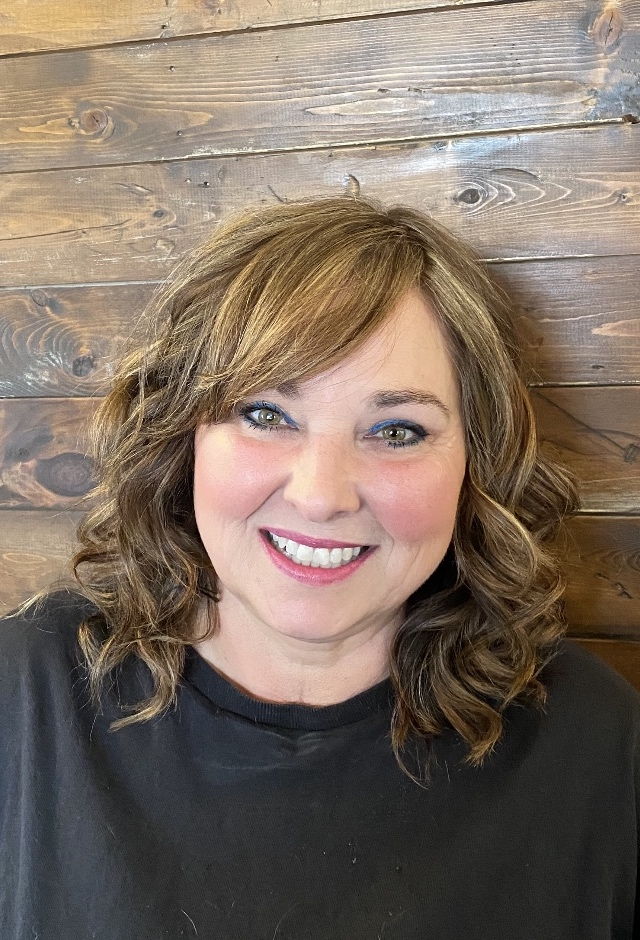
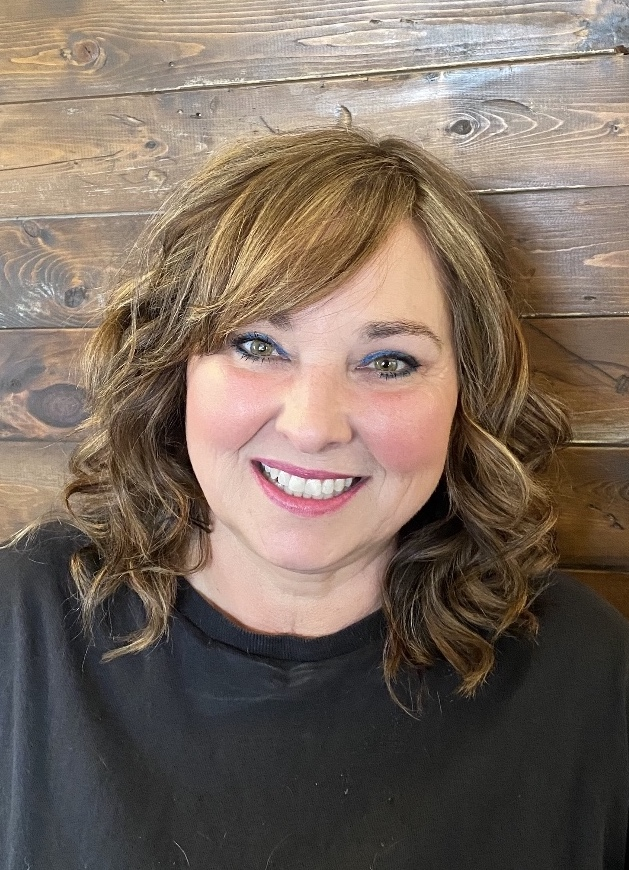
added BW photos

diff --git a/index.html b/index.html
@@ -125,6 +125,8 @@
 			<div id="teamGrid">
 				<div>
 					<div class= "stylistWrapper">
+						<!--Placeholder image-->
+						<img src="./public/images/thumbs/05.jpg" style="height: 440px; width: 320px">
 						<div>
 							<p class="nameText">Tammy Allen</p>
 							<p class="stylistBackgroundText">I knew I was going to be a stylist since I was a kid. Quite frankly, my inspiration was getting one Toni home perm too many! My mom would give my sister and I these home perms and we'd come out looking like a pack of poodles instead of the glam queens the box promised. One day I said, "That's enough! There's got to be a better way!" And the next thing you know I was a stylist. I love what I do. Every day. I love making my clients feel pretty. It's great to see them sneak peeks at themselves as they leave the salon with a smile. I remember what bad had hair feels like and I always try to think like and feel for the person in my chair. </p>
@@ -136,6 +138,8 @@
 				</div>
 				<div>
 					<div class= "stylistWrapper">
+						<!--Placeholder image-->
+						<img src="./public/images/thumbs/05.jpg" style="height: 440px; width: 320px">
 						<div>
 							<p class="nameText">Beth D'Angelo-Schroth</p>
 							<p class="stylistBackgroundText">I've had this passion for hair and beauty for as long as I can remember. From curling my Mom's hair when i was four, to cutting and coloring my Barbies' hair until they had no hair left. I love making a difference in people's lives by making them feel pretty when they leave. And just listening and talking to them for an hour or so while they're here. I strive for unlimited creativity. And that starts with listening to my clients and respecting their needs. And their hair. I'm also the new mom to an adorable baby girl, Grace Marie. And I look forward to styling her hair too. </p>
@@ -147,7 +151,7 @@
 				</div>
 				<div>
 					<div class= "stylistWrapper">
-						<img class="stylistImage" src="./public/images/Sofia.JPG" alt="Sofia">
+						<img class="stylistImage" src="./public/images/Sofia_B_W.png" alt="Sofia">
 						<div>
 							<p class="nameText">Sofia Alvarez</p>
 							<p class="stylistBackgroundText">From the moment I knew what styling hair was, it was all I wanted to do. Both of my parents were hairdressers. And even as a kid, I used to trap my family and friends in the bathroom and make them let me do their hair! Cuts. Colors. I couldn't help myself! I was obsessed. Needless to say, I went to school and learned how to do it right, and now I'm doing what I know I was born to do. I love changing people's looks and attitudes. Creating looks that are artistic and modern, yet maintainable is what I strive to do for each client. Face it, great hair makes people happy. And that makes me happy! </p>	
@@ -159,7 +163,7 @@
 				</div>
 				<div>
 					<div class= "stylistWrapper">
-						<img class="stylistImage" src="./public/images/Jackie.JPG" alt="Jackie">
+						<img class="stylistImage" src="./public/images/Jackie_B_W.png" alt="Jackie">
 						<div>
 							<p class="nameText">Jackie Varone</p>
 							<p class="stylistBackgroundText">As the daughter of a Master Barber, I grew up hanging around the barber chair. I began to cut hair at 13 years old, basically for anyone that would let me. To my surprise, they kept coming back for more! I don't believe people should have to settle for a bad haircut, and simply be told," It's only hair, it will grow back!" My philosophy is this..."You have to look in the mirror everyday, and either love, or hate your hair!" So I strive to give my clients -- both men and women -- The Perfect Cut, and keep them coming back. So don't settle, don't make today another "Hat Day." Love your hair!
@@ -172,7 +176,7 @@
 				</div>
 				<div>
 					<div class="stylistWrapper">
-						<img class="stylistImage" src="./public/images/Shelia.JPG" alt="Shelia">
+						<img class="stylistImage" src="./public/images/Shelia_B_W.png" alt="Shelia">
 						<div>
 							<p class="nameText">Shelia Peters</p>
 							<p class="stylistBackgroundText">I don’t remember if its when I mixed food coloring with flour to color the neighborhood kids hair or when my friend’s mother called mine upset that I cut her “Chrissy” doll’s hair; shortly after that I spent my Saturdays at my father’s salon sweeping floors and folding towels. 39 years later I still sweep floors and fold towels however, now its after haircuts, coloring, highlights, perms and creating other looks on both women and men. Adding beauty and confidence to people’s looks is my daily goal. </p>
@@ -185,6 +189,8 @@
 				<div>
 					<div class="stylistWrapper">
 						<!-- Tess's image here	 -->
+						<!--Placeholder image-->
+						<img src="./public/images/thumbs/05.jpg" style="height: 440px; width: 320px">
 						<div>
 							<p class="nameText">Tessa Glaze</p>
 							<p class="stylistBackgroundText">Tessa is the next generation here at Bangz! This talented, young barber & stylist may be Tammy's daughter, but she's a rising star in her own right. We're waiting for her to write her bio, but in the meantime, follow along with her on Instagram at <span><a href="https://www.instagram.com/tessa_does_hair/">tessa_does_hair</a></span></p>
@@ -197,6 +203,7 @@
 				<div>
 					<div class="stylistWrapper">
 						<!--Rebecca's image here-->
+							<img src="./public/images/thumbs/05.jpg" style="height: 440px; width: 320px">
 						<div>
 							<p class="nameText">Rebecca Rose</p>
 							<p class="stylistBackgroundText">As long as I can remember, beauty, style and fashion have always been passions of mine -- head to toe. So it's not much of a wonder that I got into doing manis and pedis. (I have to confess, I'm kind of disappointed my young daughter doesn't feel the same way.) Manis and pedis complete your look, lets you feel polished and pulled together. And it's not just  a summer thing -- a manicure or pedicure is a great way to take care of yourself year round. I love to meet new people and make you feel good with a fresh, new manicure or totally relaxed in my pedicure chair as I pamper you. I can't wait to meet you! <br><br> Rebecca owns <strong>Lula Nails</strong>, located at 1801 Penfield Road, right around the corner from our salon. Give her a call at<a style="color: #9a2442; margin-left: 5px" href="tel:5857030319"><strong>(585)703-0319</strong></a> to make an appointment!</p>

diff --git a/public/css/main.css b/public/css/main.css
@@ -1974,10 +1974,6 @@ input, select, textarea {
 				text-align: center !important;
 			}
 
-			.stylistImage {
-				max-height: 340px !important;	
-			}
-
 			.expansionButton {
 				text-align: center !important;
 			}
@@ -2430,9 +2426,9 @@ input, select, textarea {
 }
 
 .stylistImage {
-	width: 250px;
+	width: 320px;
 	height: auto;
-	margin-top: 30px;
+	max-height: 440px;
 }
 
 #teamGrid {
